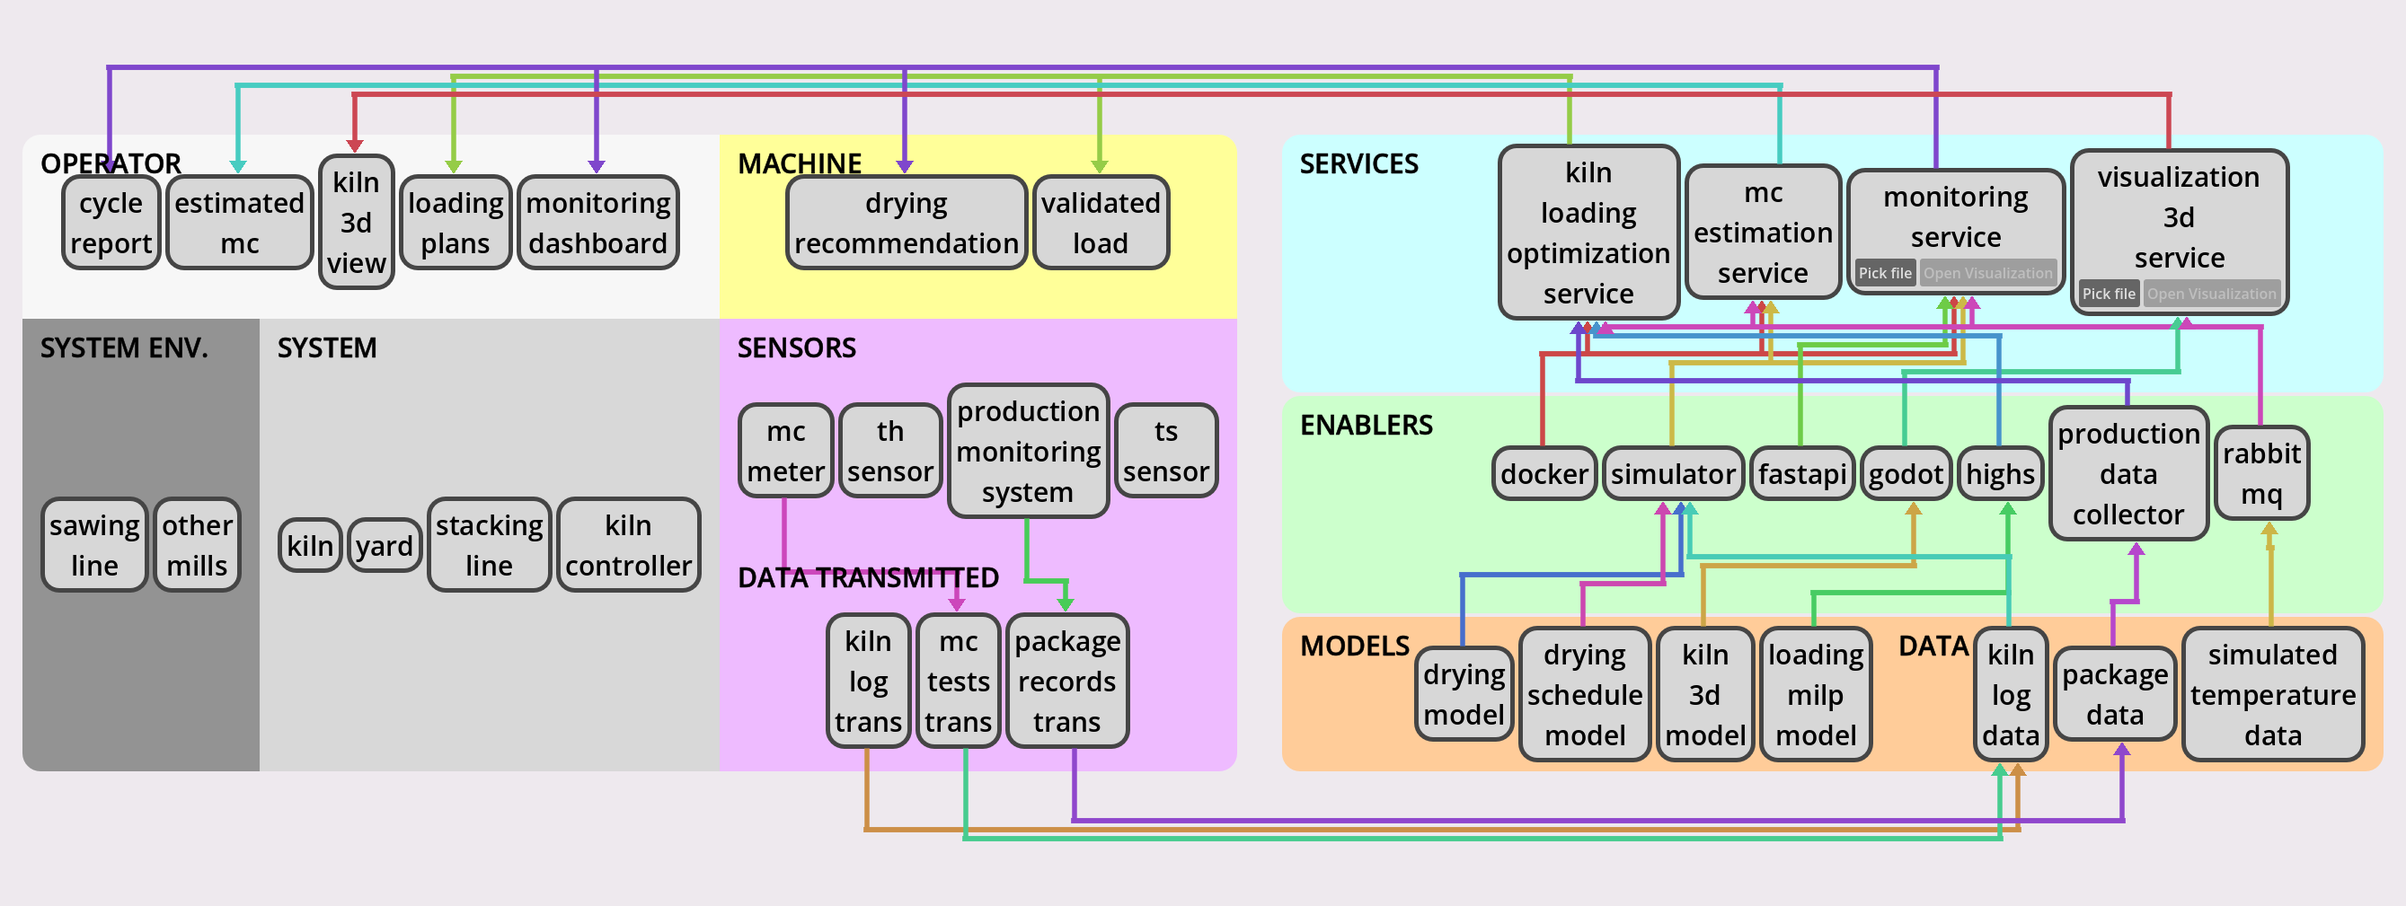
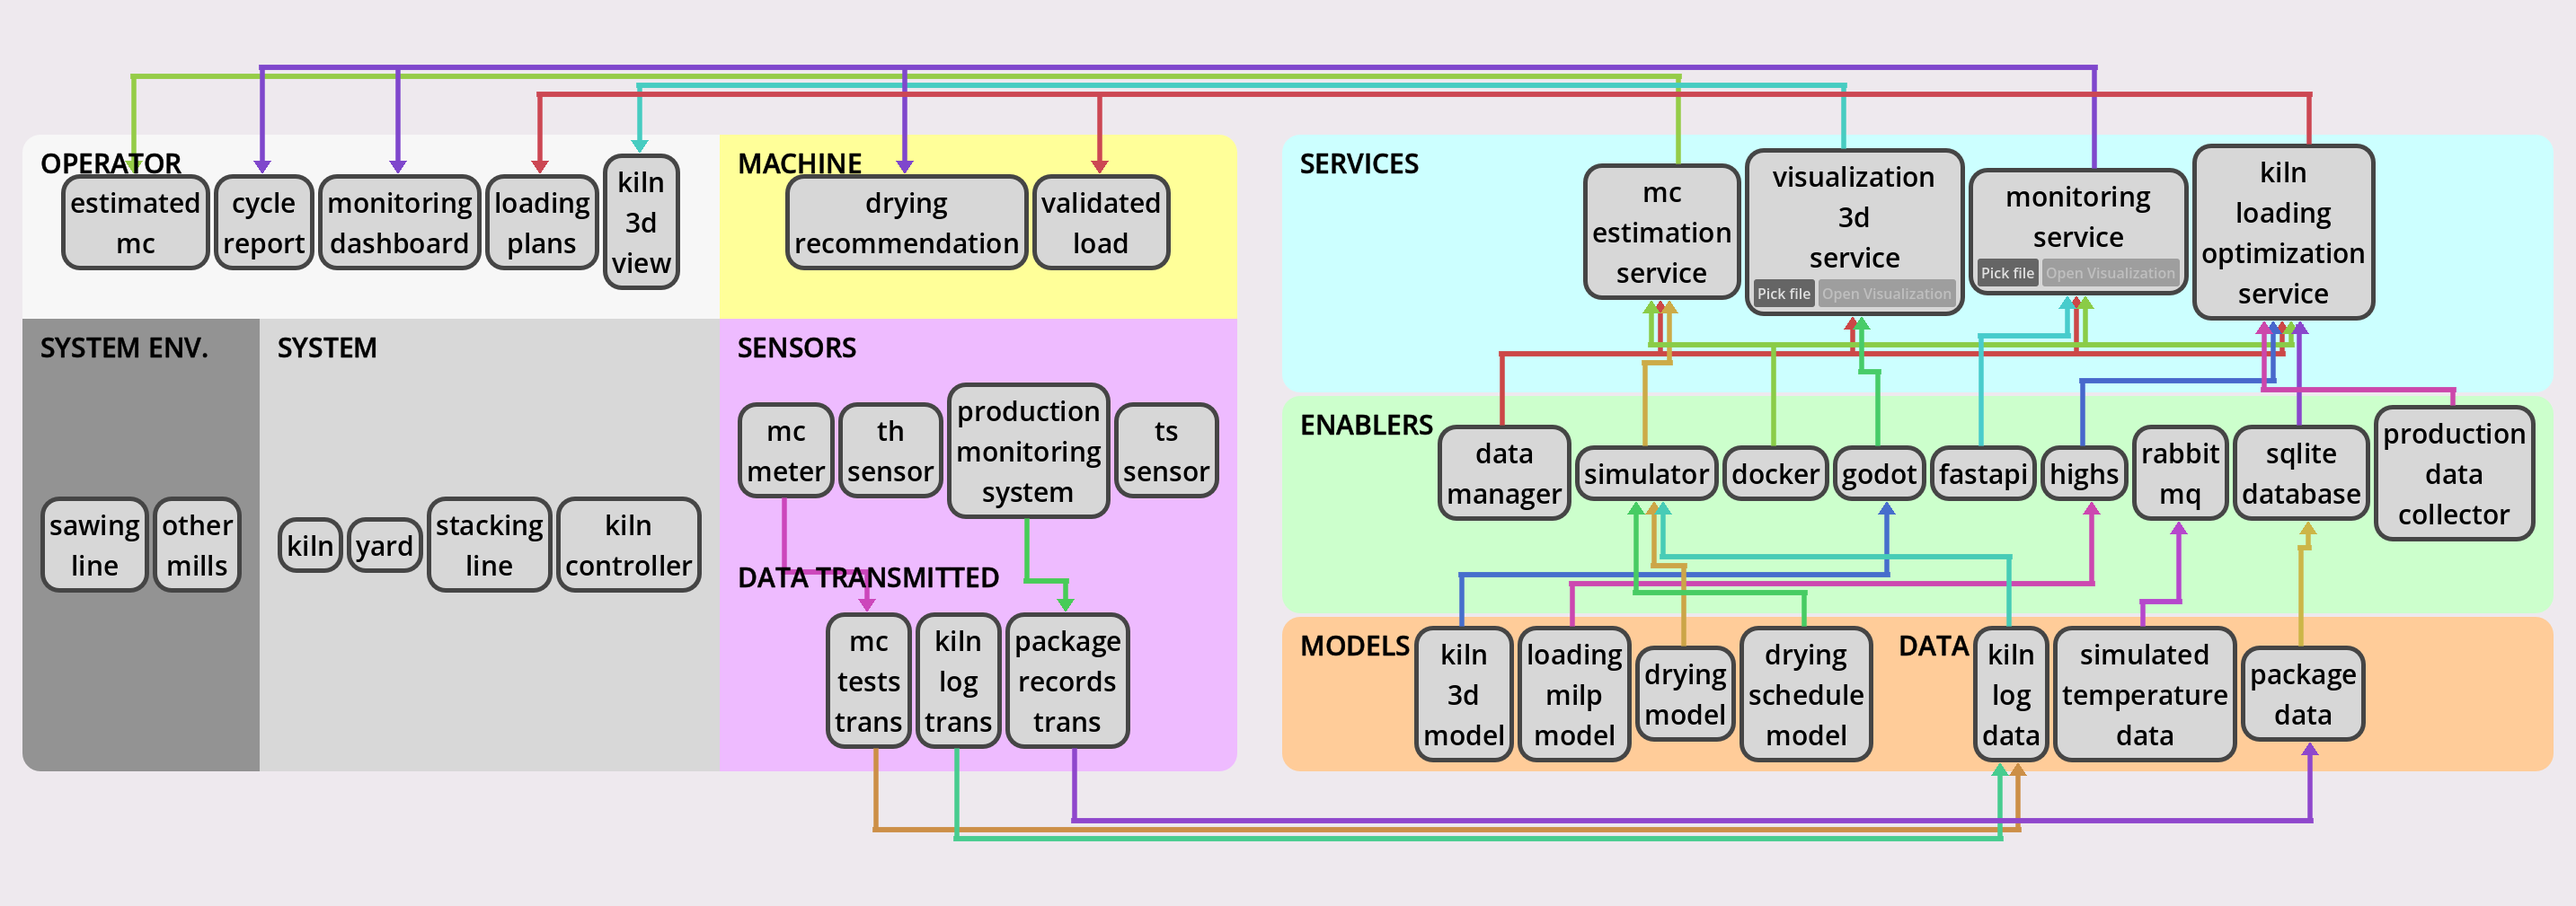
Added CI screenshot, characteristics table, and DTInsight web export for commit 5f6964675439659b7e1727dc635651090364d468

Changed region(s): [[0.0, 0.0614, 0.9918, 0.9524], [0.4029, 0.891, 0.4339, 0.9217], [0.3719, 0.9217, 0.4029, 0.9524]]

diff --git a/website/themes/my-theme/layouts/partials/characteristics-table.html b/website/themes/my-theme/layouts/partials/characteristics-table.html
@@ -22,7 +22,7 @@
         <tr>
 			<td class="characteristic-id">C<sub>4</sub></td>
             <td>Physical-to-virtual interaction</td>
-            <td>kiln_log_trans: Loads recorded manually by operators in the kiln log after drying: loading and drying times, loaded length and volume, length lost<br>mc_tests_trans: Results of the manual MC tests, recorded in the kiln log<br>package_records_trans: Package records (dimension, length, number of pieces, production date) collected automatically every hour from the production monitoring system</td>
+            <td>mc_tests_trans: Results of the manual MC tests, recorded in the kiln log<br>kiln_log_trans: Loads recorded manually by operators in the kiln log after drying: loading and drying times, loaded length and volume, length lost<br>package_records_trans: Package records (dimension, length, number of pieces, production date) collected automatically every hour from the production monitoring system</td>
 		</tr>
         <tr>
 			<td class="characteristic-id">C<sub>5</sub></td>
@@ -32,7 +32,7 @@
         <tr>
 			<td class="characteristic-id">C<sub>6</sub></td>
             <td>DT services</td>
-            <td>kiln_loading_optimization_service: Builds the available inventory from the package records and computes one loading plan per lumber dimension (2x4, 2x6, 2x8) with a lexicographic MILP<br>mc_estimation_service: Estimates the MC of the load from the dry-bulb and wet-bulb temperatures of the kiln and compares it with the planned MC<br>monitoring_service: Web dashboard where operators request and validate loading plans, follow the drying cycle, and review recommendations<br>visualization_3d_service: 3D view of the kiln reproducing the arrangement of the validated load</td>
+            <td>mc_estimation_service: Estimates the MC of the load from the dry-bulb and wet-bulb temperatures of the kiln and compares it with the planned MC<br>visualization_3d_service: 3D view of the kiln reproducing the arrangement of the validated load<br>monitoring_service: Web dashboard where operators request and validate loading plans, follow the drying cycle, and review recommendations<br>kiln_loading_optimization_service:  computes one loading plan per lumber dimension (2x4, 2x6, 2x8) with a lexicographic MILP</td>
 		</tr>
         <tr>
 			<td class="characteristic-id">C<sub>7</sub></td>
@@ -52,17 +52,17 @@
         <tr>
 			<td class="characteristic-id">C<sub>10</sub></td>
             <td>DT models and data</td>
-            <td>Model:<br>drying_model: Falling-rate drying kinetics dMC/dt = -k(MC - EMC) with Hailwood-Horrobin EMC; the drying constant k is not calibrated<br>drying_schedule_model: Drying schedule of the sawmill for spruce and jack pine, target MC 15 %; initial MC of 44 % (black spruce) and 48 % (jack pine)<br>kiln_3d_model: 3D scene of the kiln with its lanes and lumber packages<br>loading_milp_model: Column-based MILP: columns of four packages of the same length placed in the kiln lanes; maximizes the loaded volume, then prioritizes the oldest packages<br><br>Data:<br>kiln_log_data: Kiln log of the sawmill: unused kiln length, MC at the final test, and cycle durations recorded for the studied kiln<br>package_data: Package records used to build the inventory available for kiln loading<br>simulated_temperature_data: Dry-bulb and wet-bulb temperatures generated by the simulator and sent to the MC estimation service</td>
+            <td>Model:<br>kiln_3d_model: 3D scene of the kiln with its lanes and lumber packages<br>loading_milp_model: Column-based MILP: columns of four packages of the same length placed in the kiln lanes; maximizes the loaded volume, then prioritizes the oldest packages<br>drying_model: Falling-rate drying kinetics dMC/dt = -k(MC - EMC) with Hailwood-Horrobin EMC; the drying constant k is not calibrated<br>drying_schedule_model: Drying schedule of the sawmill for spruce and jack pine, target MC 15 %; initial MC of 44 % (black spruce) and 48 % (jack pine)<br><br>Data:<br>kiln_log_data: Kiln log of the sawmill: unused kiln length, MC at the final test, and cycle durations recorded for the studied kiln<br>simulated_temperature_data: Dry-bulb and wet-bulb temperatures generated by the simulator and sent to the MC estimation service<br>package_data: Package records used to build the inventory available for kiln loading</td>
 		</tr>
         <tr>
 			<td class="characteristic-id">C<sub>11</sub></td>
             <td>Tooling and enablers</td>
-            <td>docker: Docker containers: one container per service and one for the message broker<br>simulator: Kiln simulator following the drying schedules of the sawmill; generates the dry-bulb and wet-bulb temperatures of the kiln<br>fastapi: Python FastAPI web server of the dashboard; relays operator requests to the services through RabbitMQ<br>godot: Godot game engine used for the 3D view of the kiln<br>highs: HiGHS MILP solver called through SciPy<br>production_data_collector: Collects the package records from the production monitoring system of the sawmill every hour<br>rabbit_mq: RabbitMQ message broker; the services communicate only through it</td>
+            <td>data_manager: Only accessor of the database: derives the available inventory from the package records and the validated loads, records the kiln state during drying, and provides these data to the services<br>simulator: Kiln simulator following the drying schedules of the sawmill; generates the dry-bulb and wet-bulb temperatures of the kiln<br>docker: Docker containers: one container per service and one for the message broker<br>godot: Godot game engine used for the 3D view of the kiln<br>fastapi: Python FastAPI web server of the dashboard; relays operator requests to the services through RabbitMQ<br>highs: HiGHS MILP solver called through SciPy<br>rabbit_mq: RabbitMQ message broker carrying all messages between the data manager, the services, and the 3D client<br>sqlite_database: SQLite database storing the package records, the validated loads, and the kiln state<br>production_data_collector: Collects the package records from the production monitoring system of the sawmill every hour</td>
 		</tr>
         <tr>
 			<td class="characteristic-id">C<sub>12</sub></td>
             <td>DT constellation</td>
-            <td>Services in Docker containers communicating only through RabbitMQ; Godot client on the host machine; package records collected from the production monitoring system of the sawmill.</td>
+            <td>Services in Docker containers communicating only through RabbitMQ; a data manager is the only accessor of the SQLite database; Godot client on the host machine; package records collected from the production monitoring system of the sawmill.</td>
 		</tr>
         <tr>
 			<td class="characteristic-id">C<sub>13</sub></td>
@@ -87,7 +87,7 @@
         <tr>
 			<td class="characteristic-id">C<sub>17</sub></td>
             <td>Insights and decision making</td>
-            <td>cycle_report: Report generated at the end of the drying cycle<br>drying_recommendation: Recommendations to the kiln operator during the cycle, who can review or override them<br>estimated_mc: Estimated MC and its deviation from the planned MC during the drying cycle<br>kiln_3d_view: 3D view of the validated load inside the kiln<br>loading_plans: One loading plan per dimension with its loaded volume, lane fill, and mean package age<br>validated_load: Loading plan selected and validated by the planner, then applied manually<br>monitoring_dashboard: Dashboard showing the loading plans, the estimated and planned MC, the drying progress, and recommendations</td>
+            <td>estimated_mc: Estimated MC and its deviation from the planned MC during the drying cycle<br>cycle_report: Report generated at the end of the drying cycle<br>monitoring_dashboard: Dashboard showing the loading plans, the estimated and planned MC, the drying progress, and recommendations<br>drying_recommendation: Recommendations to the kiln operator during the cycle, who can review or override them<br>loading_plans: One loading plan per dimension with its loaded volume, lane fill, and mean package age<br>validated_load: Loading plan selected and validated by the planner, then applied manually<br>kiln_3d_view: 3D view of the validated load inside the kiln</td>
 		</tr>
         <tr>
 			<td class="characteristic-id">C<sub>18</sub></td>
